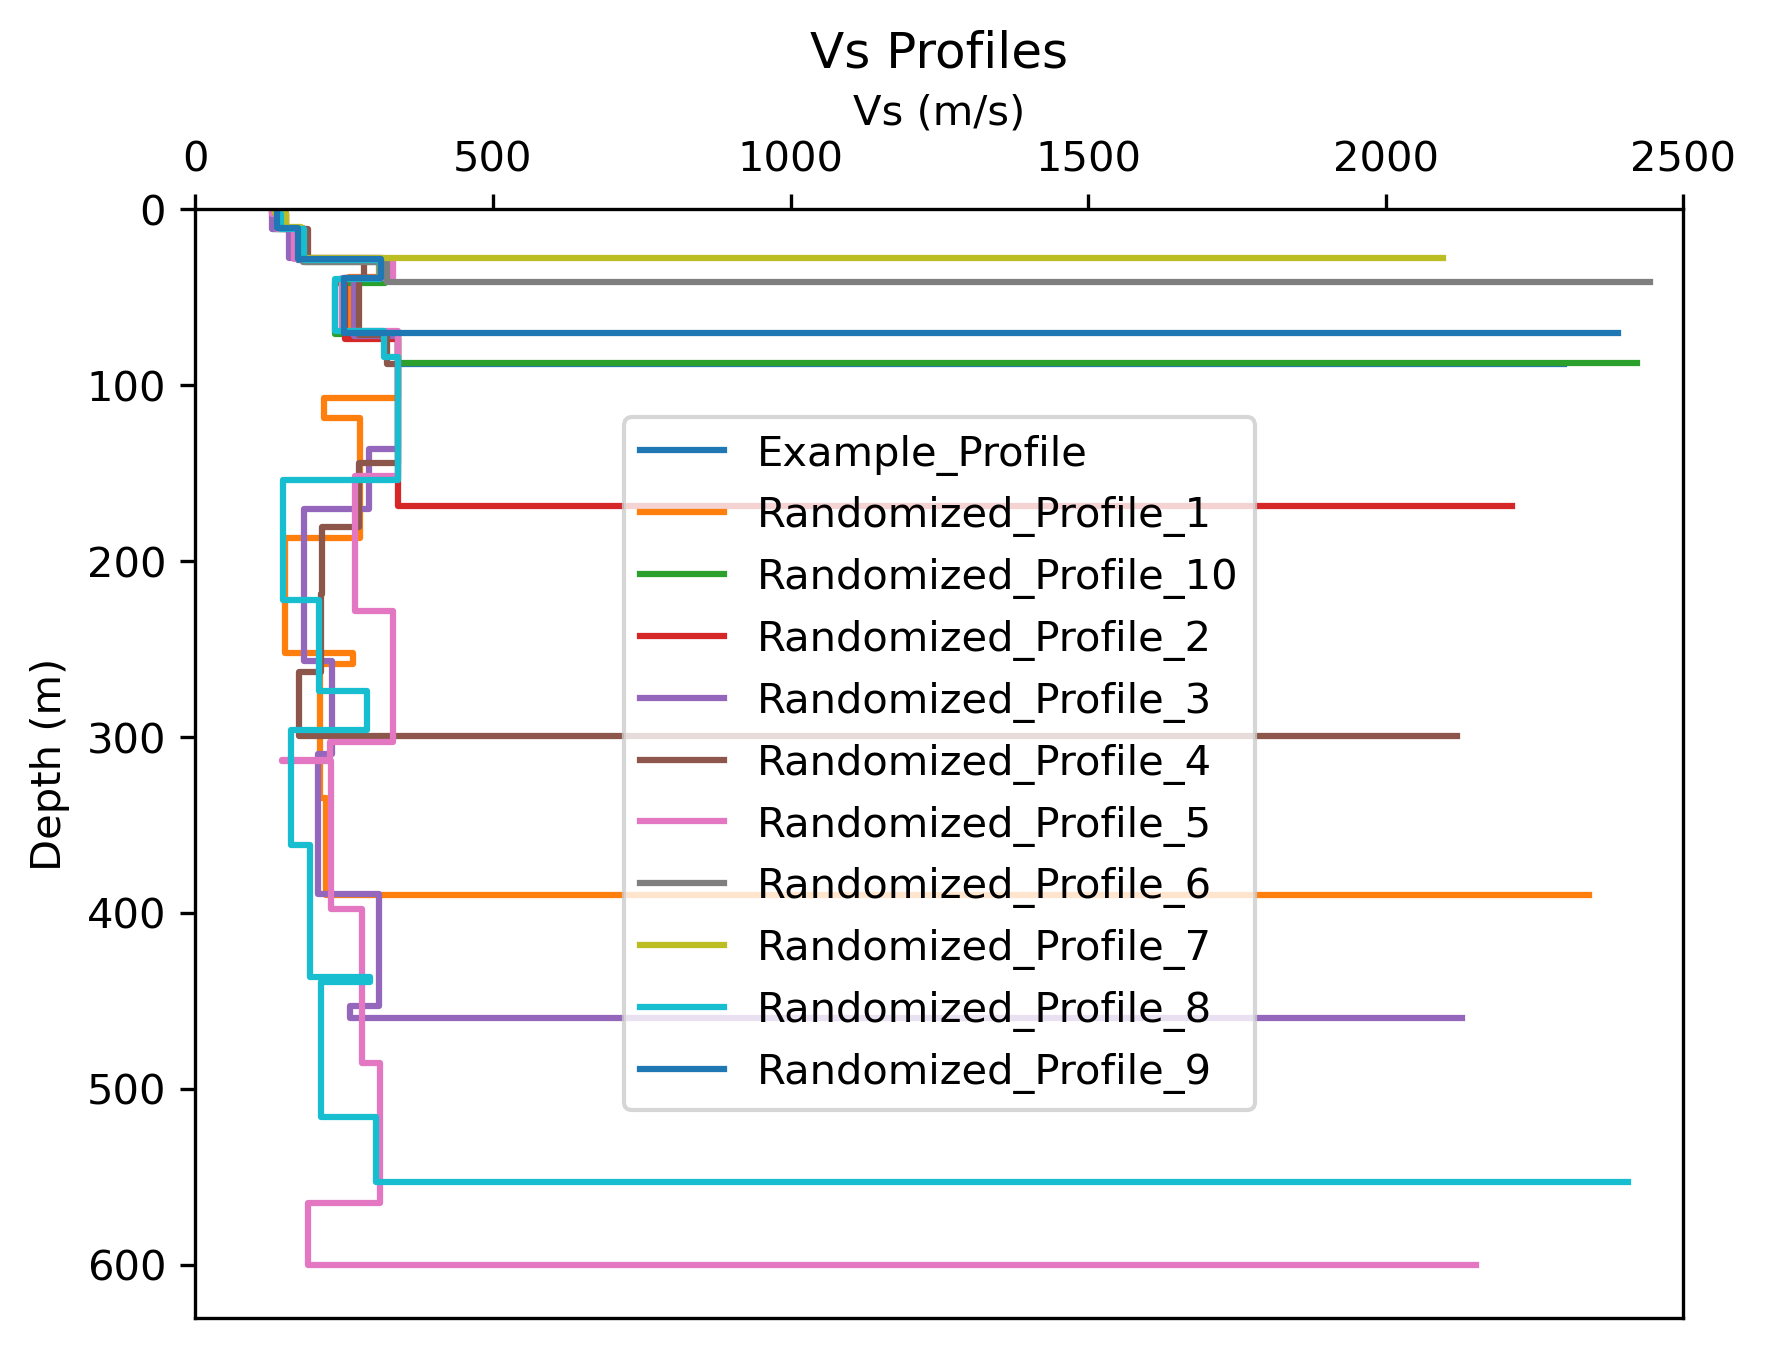
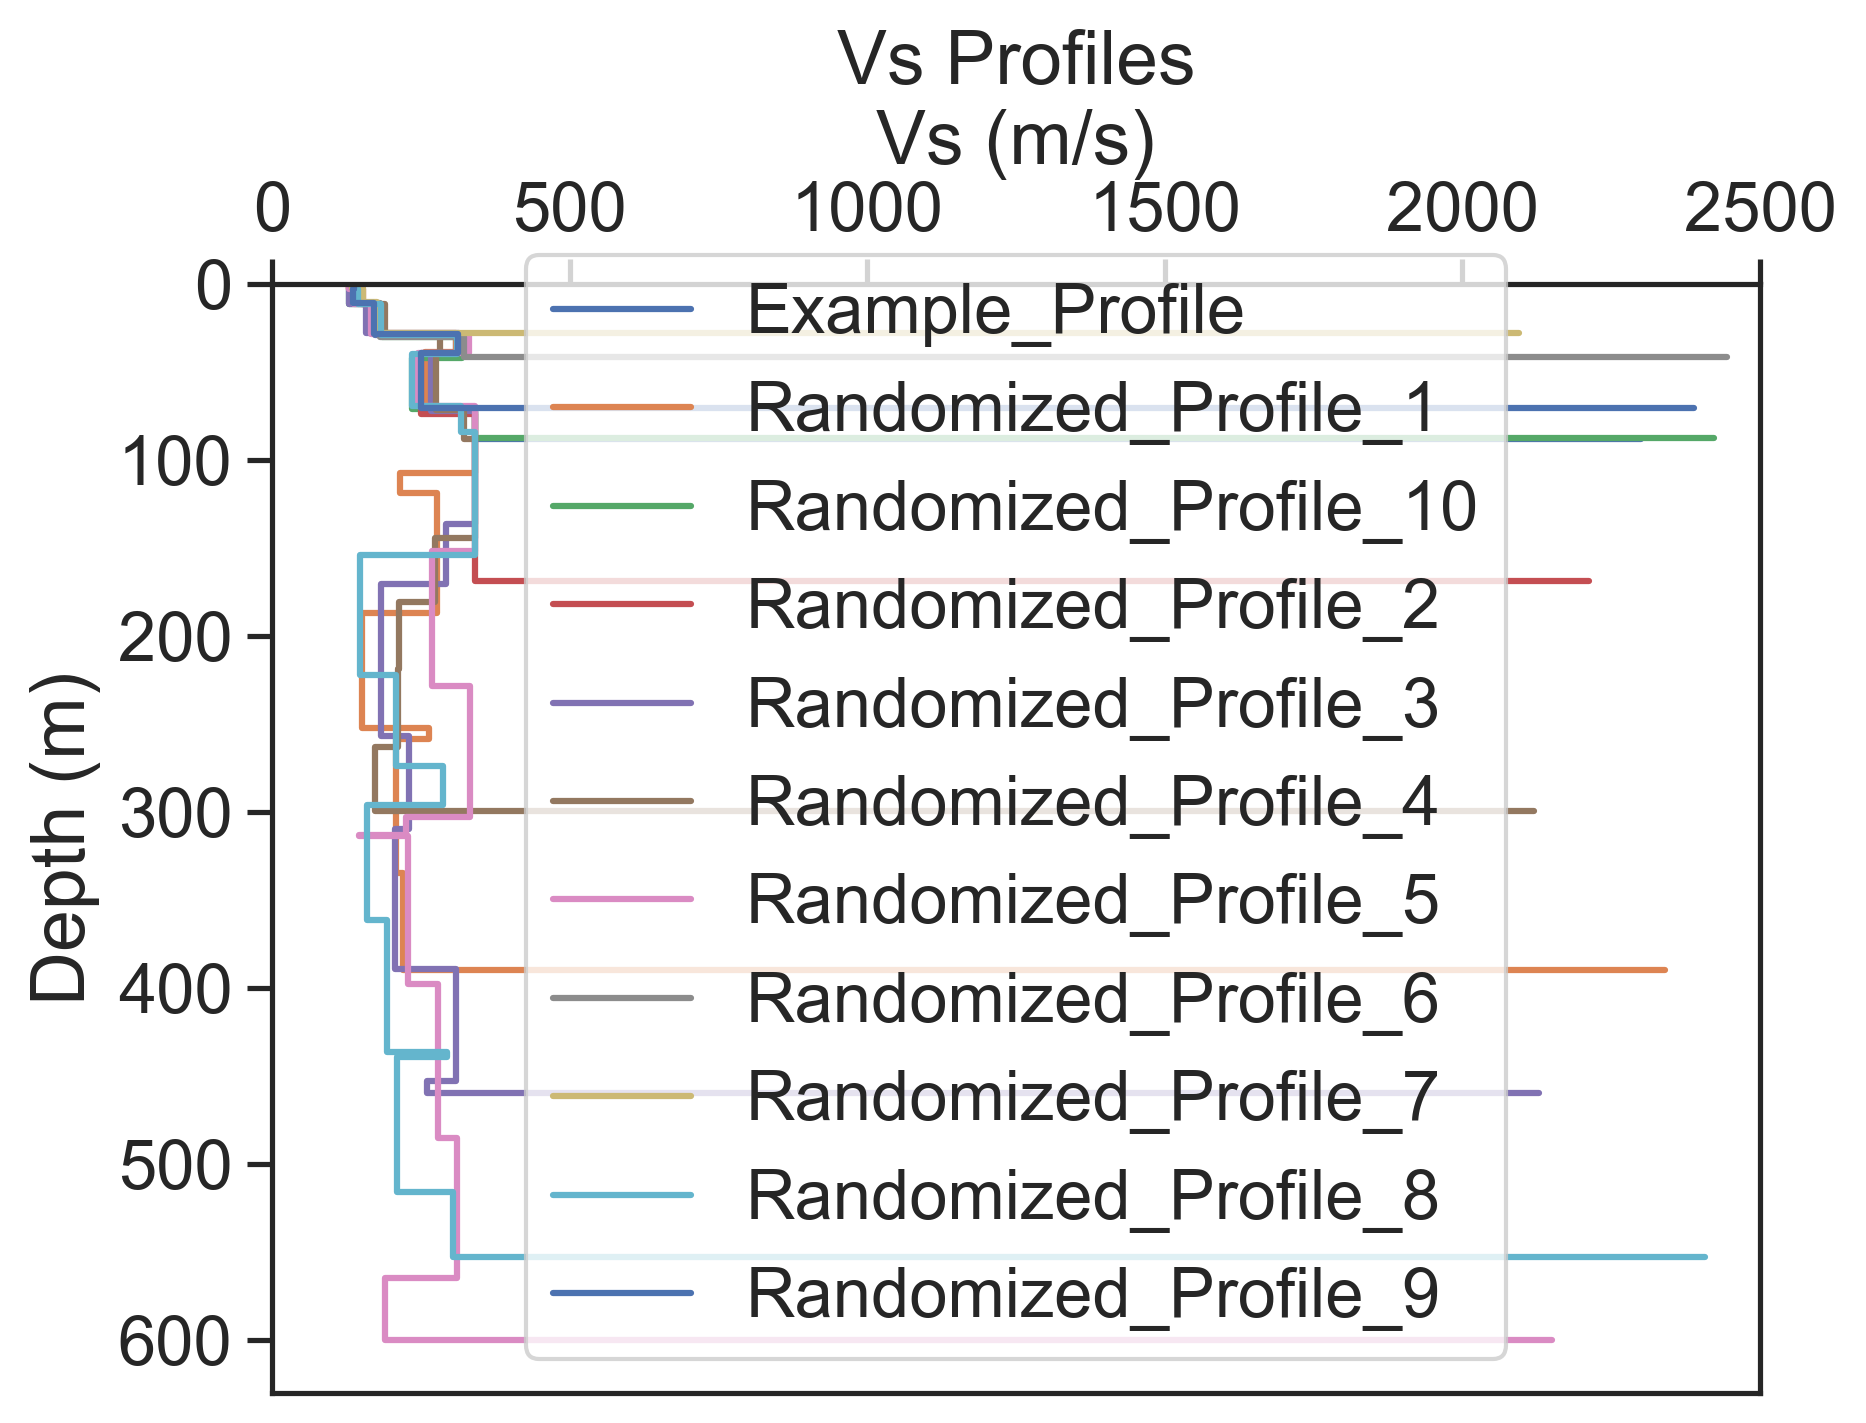
Changed the style of plots

Changed region(s): [[0.0, 0.0, 0.9966, 0.997], [0.0934, 0.0935, 0.1246, 0.1246]]

diff --git a/Code/Multiple_examples.py b/Code/Multiple_examples.py
@@ -3,6 +3,10 @@ import pandas as pd
 import os
 from Code import Travel_time
 import matplotlib.pyplot as plt
+import seaborn as sns
+
+# Set the style of the plots
+sns.set_theme(style='ticks', font_scale=1.5)
 
 # Get a list of all CSV files in the "examples" folder
 # os.listdir() returns a list of all files in the specified directory
@@ -65,12 +69,9 @@ results_df = pd.DataFrame.from_dict(results, orient='index', columns=['std_tts',
 # Extract the maximum depth from the results
 max_Depth = results_df['depth_inter'].apply(max).max()
 
-# List of markers
-markers = ['o', 'v', '^', '<', '>', 's', 'p', '*', 'h', 'H', '+', 'x', 'D', 'd', '|', '_']
-
 ## Plot the results for each index across depth of std_tts
 for idx, i in enumerate(results_df.index):
-    plt.plot(results_df.loc[i, 'std_tts'], results_df.loc[i, 'depth_inter'], label=i, marker=markers[idx % len(markers)])
+    plt.plot(results_df.loc[i, 'std_tts'], results_df.loc[i, 'depth_inter'], label=i)
 
 plt.title('Standard Deviation of Travel Time')
 plt.vlines(0.05, 0, max_Depth, colors='red')
@@ -95,7 +96,7 @@ plt.show()
 
 ## Plot the results for each index across depth of std_Vs
 for idx, i in enumerate(results_df.index):
-    plt.plot(results_df.loc[i, 'std_Vs'], results_df.loc[i, 'depth_inter'], label=i, marker=markers[idx % len(markers)])
+    plt.plot(results_df.loc[i, 'std_Vs'], results_df.loc[i, 'depth_inter'], label=i)
 
 plt.title('Standard Deviation of Vs')
 plt.vlines(0.05, 0, max_Depth, colors='red')
